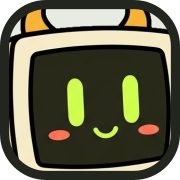
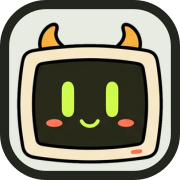
feat: twelve new Nix poses, each with a job
- scripts/nix-sheets.mjs cuts sheets 2 and 3 (white flood-fill, halo peel,
  per-cell grouping, a seeded hole for the headphone gap).
- The front-facing head is the navbar logo and the favicon badge.
- Placed: bonsai by Experience, graduate by school, pointing at All
  projects, thumbs-up as the Ship node, thinking by the blog, on the phone
  and holding mail on the contact lines, holding the CV in the resume
  picker, tea on the empty blog, headphones in the lab, magnifier on 404.

diff --git a/DESIGN.md b/DESIGN.md
@@ -289,7 +289,7 @@ Thin 1px hairline, 3px corners, Geist Mono 0.75rem in ink-soft, 26px tall (36px 
 A recess, not a window: plaster-lift, 1px hairline, 6px corners, a quiet mono caption line on top (the terminal's `zsh · mahdi@tehran`, `80×24`). No title-bar chrome, no traffic lights.
 
 ### Navigation
-- **Navbar:** Nix's head is the mark: it peeks up out of the bar, its cut edge sitting on the bottom rule (hover lifts it 3px). Young Serif name beside it (hidden under 420px). Section links in ink-soft at 0.95rem; the current one goes ink 600 with a 7px lime bud under the word. At the inline-end: the call button (phone icon, and the number itself from 1180px), then the language switch (globe + short code) and the day/night switch (moon or sun, showing the state it switches to), all 40px, 4px corners, hairline.
+- **Navbar:** Nix's front-facing head is the mark (46px; hover lifts it 3px). Young Serif name beside it (hidden under 420px). Section links in ink-soft at 0.95rem; the current one goes ink 600 with a 7px lime bud under the word. At the inline-end: the call button (phone icon, and the number itself from 1180px), then the language switch (globe + short code) and the day/night switch (moon or sun, showing the state it switches to), all 40px, 4px corners, hairline.
 - **Mobile:** the same bar without the links, plus a floating dock (plaster-lift, ink-rule frame, 6px, 56px items); the current item gets the same lime bud dot.
 
 ### The Alcove (signature)
@@ -297,7 +297,14 @@ Copy on the open wall (inline-start), the arrangement on the other side: photo s
 
 ### Nix (mascot)
 
-A raster character: four poses (waving, sleeping, panicked, typing) cut with real alpha from the owner's generated sheet by `scripts/nix.mjs` and served as WebP through `src/components/art/Nix.astro` (`mood="happy" | "sleep" | "panic" | "type"`). His head, cropped by `scripts/icons.mjs`, is the site's mark: the navbar logo and the favicon/apple-touch badge (a plaster tile with an ink edge he peeks into). One pose per place, each with a job: waving on the hero shelf, beside "Get in touch", on top of the resume picker (with a speech bubble) and at the end of every blog post; the last node ("Ship it") of the AI workflow; typing next to the terminal; napping beside "Before that? I was studying", in the footer and on empty/unbuilt pages; panicking on the 404; waving as the avatar of MDX `<Nix>` asides and on the social card. Always decorative (empty alt) unless it carries meaning. By day he sits directly on the plaster; by night a 1px `--rule-strong` cut line (four stacked 0-blur drop-shadows) keeps his black outline from dissolving into the dark. His own colours (cream body, amber horns, coral tail and blush, lime face) are part of the character, not the page palette, and never leak into UI.
+A raster character cut with real alpha from the owner's generated sheets: sheet 1 by `scripts/nix.mjs` (waving, sleeping, panicked, typing), sheets 2 and 3 by `scripts/nix-sheets.mjs` (head, call, mail, cv, grad, thumbs, tea, music, search, point, think, bonsai), served as WebP through `src/components/art/Nix.astro` (`mood=…`). The front-facing head is the site's mark: the navbar logo and, via `scripts/icons.mjs`, the favicon/apple-touch badge (a plaster tile with an ink edge). One pose per place, each with a job:
+- waving: hero shelf, beside "Get in touch", end of every blog post, MDX `<Nix>` asides, the social card
+- bonsai (carrying the branch): beside the Experience title; grad: beside "Before that? I was studying"
+- point: pointing at "All projects"; thumbs (with confetti): the "Ship it" node of the AI loop
+- type: next to the terminal; think: beside the blog heading
+- call / mail: at the end of the phone and email lines in the close; cv: on top of the resume picker
+- sleep: footer; tea: empty blog; music (headphones): the lab; search (magnifier): the 404
+Directional poses mirror with `var(--dir)` so they keep facing what they point at. Always decorative (empty alt). By day he sits directly on the plaster; by night a 1px `--rule-strong` cut line (four stacked 0-blur drop-shadows) keeps his black outline from dissolving into the dark. His own colours (cream body, amber horns, coral tail and blush, lime face) are part of the character, not the page palette, and never leak into UI.
 
 ### Experience timeline
 The hero's branch carried down the page: a 3px bronze stem on the inline-start edge. Each current employer is a 24px lime bud on the stem; school is a hollow bronze node under the funny line "Before that? I was studying, obviously!" with a napping Nix. Each job: company in Young Serif (step-3) with an out-arrow, a date pill ("Oct 2025 – now" / "از مهر ۱۴۰۴ تا الان") beside place and mode, the role in 600, a one-sentence summary at step-1. "What I built there" sits in a plaster-lift recess (1px hairline, 6px) whose items carry hollow bronze commit nodes.

diff --git a/README.md b/README.md
@@ -14,8 +14,8 @@ The design system is written down in [DESIGN.md](DESIGN.md); product intent in [
 | `pnpm build` | Static site in `dist/` |
 | `pnpm preview` | Serve `dist/` locally |
 | `pnpm check` | Type-check (needs TypeScript 6.x) |
-| `pnpm nix` | Re-cut Nix's poses from `src/assets/nix/nix-sheet.jpg`, then rebuild the logo and favicons |
-| `pnpm icons` | Rebuild only the logo (`nix-head.png`) and favicons from the waving pose |
+| `pnpm nix` | Re-cut Nix's poses from `src/assets/nix/nix-sheet*.jpg`, then rebuild the favicons |
+| `pnpm icons` | Rebuild only the favicons from `nix-head.png` |
 | `pnpm og` | Rebuild the social card (needs `pnpm preview` running; see the script's header) |
 
 ## Writing a blog post
@@ -45,12 +45,12 @@ src/
   components/
     chrome/                Navbar, Dock (phones), Footer, ResumeDialog
     home/                  Hero, Work (timeline), Projects, AiNote (workflow loop), Skills, Shell/Terminal, BlogTeaser, Contact
-    art/Nix.astro          the mascot (moods: happy, sleep, panic, type)
+    art/Nix.astro          the mascot (16 poses; see DESIGN.md)
     ui/                    Icon, Logo, Arrow, SectionHead, Window
   scripts/
     terminal.ts            the shell: commands, history, tab completion
     chrome.ts              theme circle-reveal, scroll-spy, idle pausing, resume picker
-scripts/                   build-time: nix.mjs (cut the poses), icons.mjs (logo + favicons), og.mjs (social card)
+scripts/                   build-time: nix.mjs + nix-sheets.mjs (cut the poses), icons.mjs (favicons), og.mjs (social card)
 ```
 
 ## Design rules
